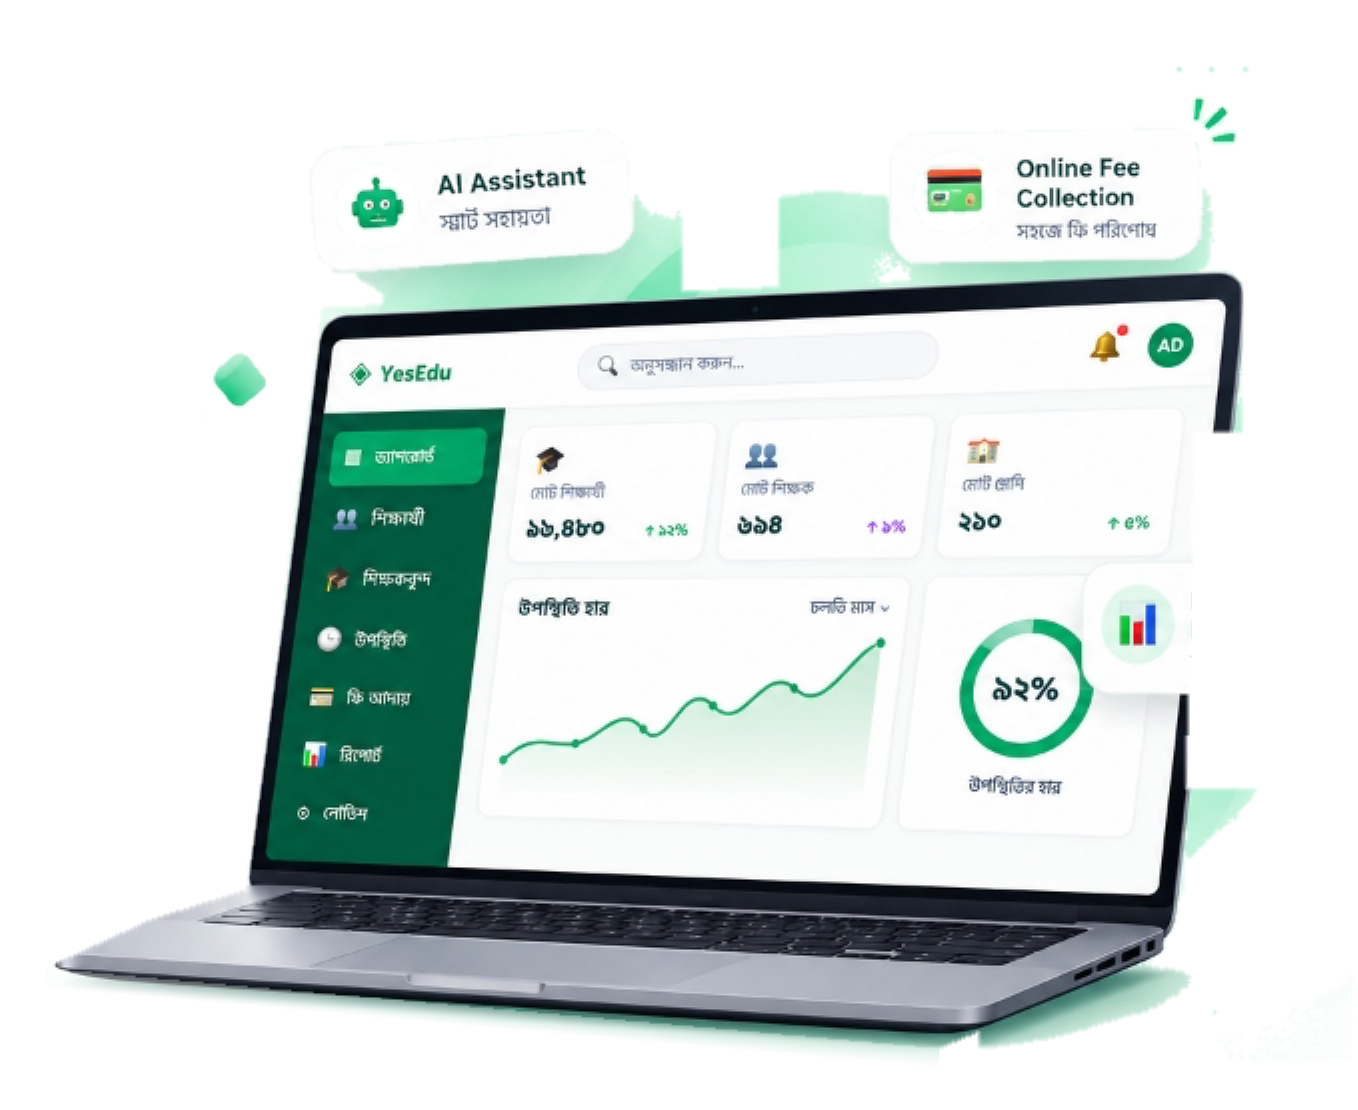
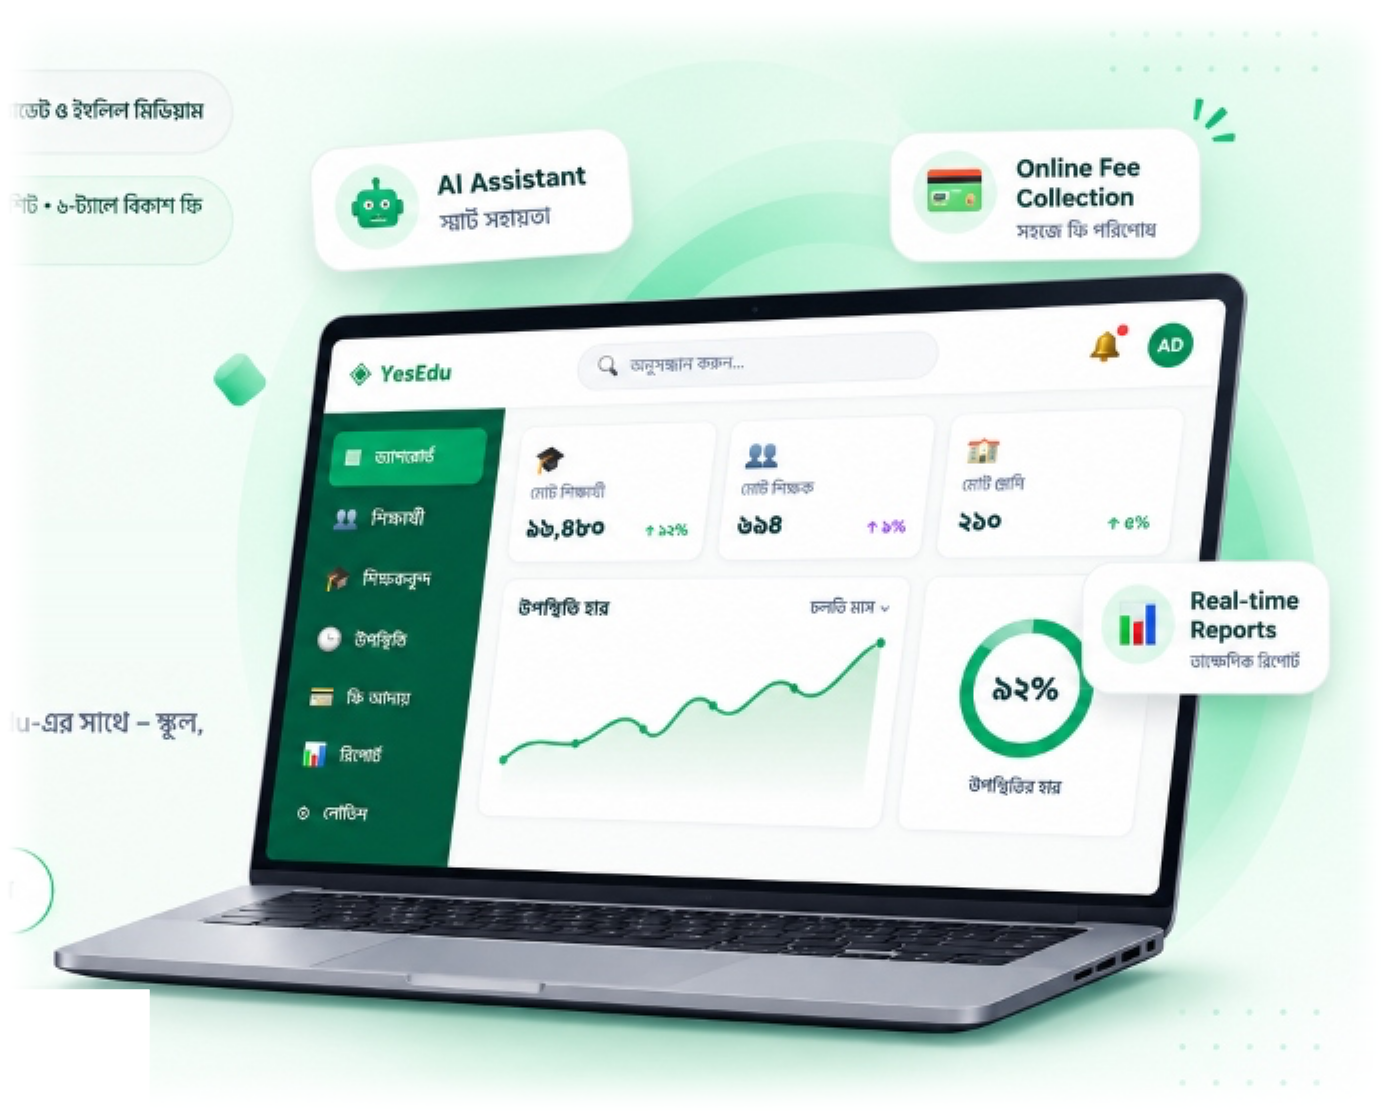
Fix hero laptop mockup: restore complete untouched MacBook, badges, and shadow with natural feathered border blending

diff --git a/index.html b/index.html
@@ -42,7 +42,7 @@
     rel="stylesheet">
 
   <!-- Main Stylesheet -->
-  <link rel="stylesheet" href="css/style.css?v=10.15">
+  <link rel="stylesheet" href="css/style.css?v=10.16">
 </head>
 
 <body>
@@ -220,12 +220,12 @@
 
             <!-- Realistic 3D Flagship Laptop Showcase Image -->
             <div class="hero-laptop-stage" id="heroLaptopStage">
-              <img src="images/hero-laptop-3d.png?v=10.15" 
+              <img src="images/hero-laptop-3d.png?v=10.16" 
                    alt="YesEdu 3D Campus OS Dashboard on Laptop" 
                    class="hero-laptop-img" 
                    loading="eager" 
-                   width="1358" 
-                   height="1110">
+                   width="1390" 
+                   height="1120">
             </div>
           </div>
         </div>
@@ -2060,7 +2060,7 @@
   </div>
 
   <!-- JavaScript Engine -->
-  <script src="js/main.js?v=10.15"></script>
+  <script src="js/main.js?v=10.16"></script>
 </body>
 
 </html>
